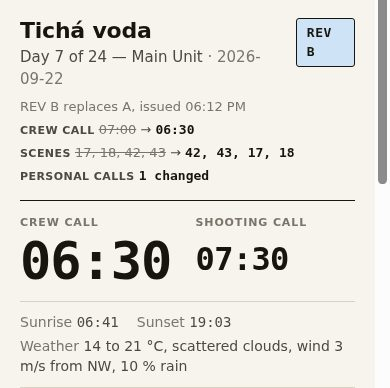
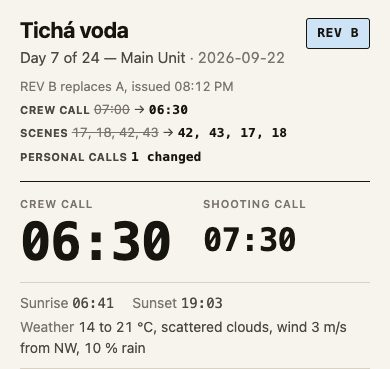
fix(landing): screenshots with real system fonts; list WhatsApp, one link per person and who-opened-REV-B
Claude-Session: https://claude.ai/code/session_01FBFRX5N8PsXsGvWdB9Y9FU

diff --git a/frontend/landing.html b/frontend/landing.html
@@ -76,8 +76,16 @@
         <span lang="en">One-tap crew link and QR code — no app install, no typed IDs.</span>
       </li>
       <li><span class="n">4</span>
-        <span lang="cs">Osobní volání — vlastní čas a oddělení každého člověka nahoře, ne sdílené PDF k prohledávání.</span>
-        <span lang="en">Personal call — each person's own call time and department surface first, not a shared PDF to search.</span>
+        <span lang="cs">Osobní volání — vlastní čas a oddělení každého člověka nahoře, ne sdílené PDF k prohledávání. Jeden odkaz na celé natáčení: vždy otevře další natáčecí den.</span>
+        <span lang="en">Personal call — each person's own call time and department surface first, not a shared PDF to search. One link for the whole shoot: it always opens the next day.</span>
+      </li>
+      <li><span class="n">5</span>
+        <span lang="cs">WhatsApp na jedno klepnutí — den jako zpráva do skupiny, každému jeho vlastní čas a odkaz do soukromého chatu.</span>
+        <span lang="en">WhatsApp in one tap — the day as a message to the group, each person's own call and link into their private chat.</span>
+      </li>
+      <li><span class="n">6</span>
+        <span lang="cs">Kdo otevřel REV B — AD vidí, komu ještě nová verze nedošla, a pošťouchne je jedním klepnutím.</span>
+        <span lang="en">Who opened REV B — the AD sees who has not got the new revision yet and nudges them in one tap.</span>
       </li>
     </ul>
 

diff --git a/frontend/scripts/take_landing_screenshots.py b/frontend/scripts/take_landing_screenshots.py
@@ -11,6 +11,7 @@ placeholder. Re-run after any visual change to the sheet to refresh them.
 """
 
 import http.server
+import os
 import socketserver
 import sys
 import threading
@@ -55,9 +56,12 @@ def main() -> int:
             # headless=True would add this Chromium build's removed "--headless=old"
             # flag; pass the new headless mode explicitly instead (same workaround
             # prior shifts used against this sandbox's pinned Chromium revision).
-            browser = pw.chromium.launch(
-                executable_path=CHROMIUM_PATH, headless=False, args=["--headless=new"]
-            )
+            # The cloud sandbox has only a pinned Chromium at CHROMIUM_PATH (and no system fonts, so its
+            # shots look rough); on a Mac use Playwright's own browser and the real system fonts.
+            if os.path.exists(CHROMIUM_PATH):
+                browser = pw.chromium.launch(executable_path=CHROMIUM_PATH, headless=False, args=["--headless=new"])
+            else:
+                browser = pw.chromium.launch(headless=True)
             page = browser.new_page(viewport={"width": 390, "height": 844})
             page.goto(f"http://127.0.0.1:{port}/index.html?demo=1", wait_until="networkidle")
             page.wait_for_selector("#sheet.visible", timeout=10_000)
